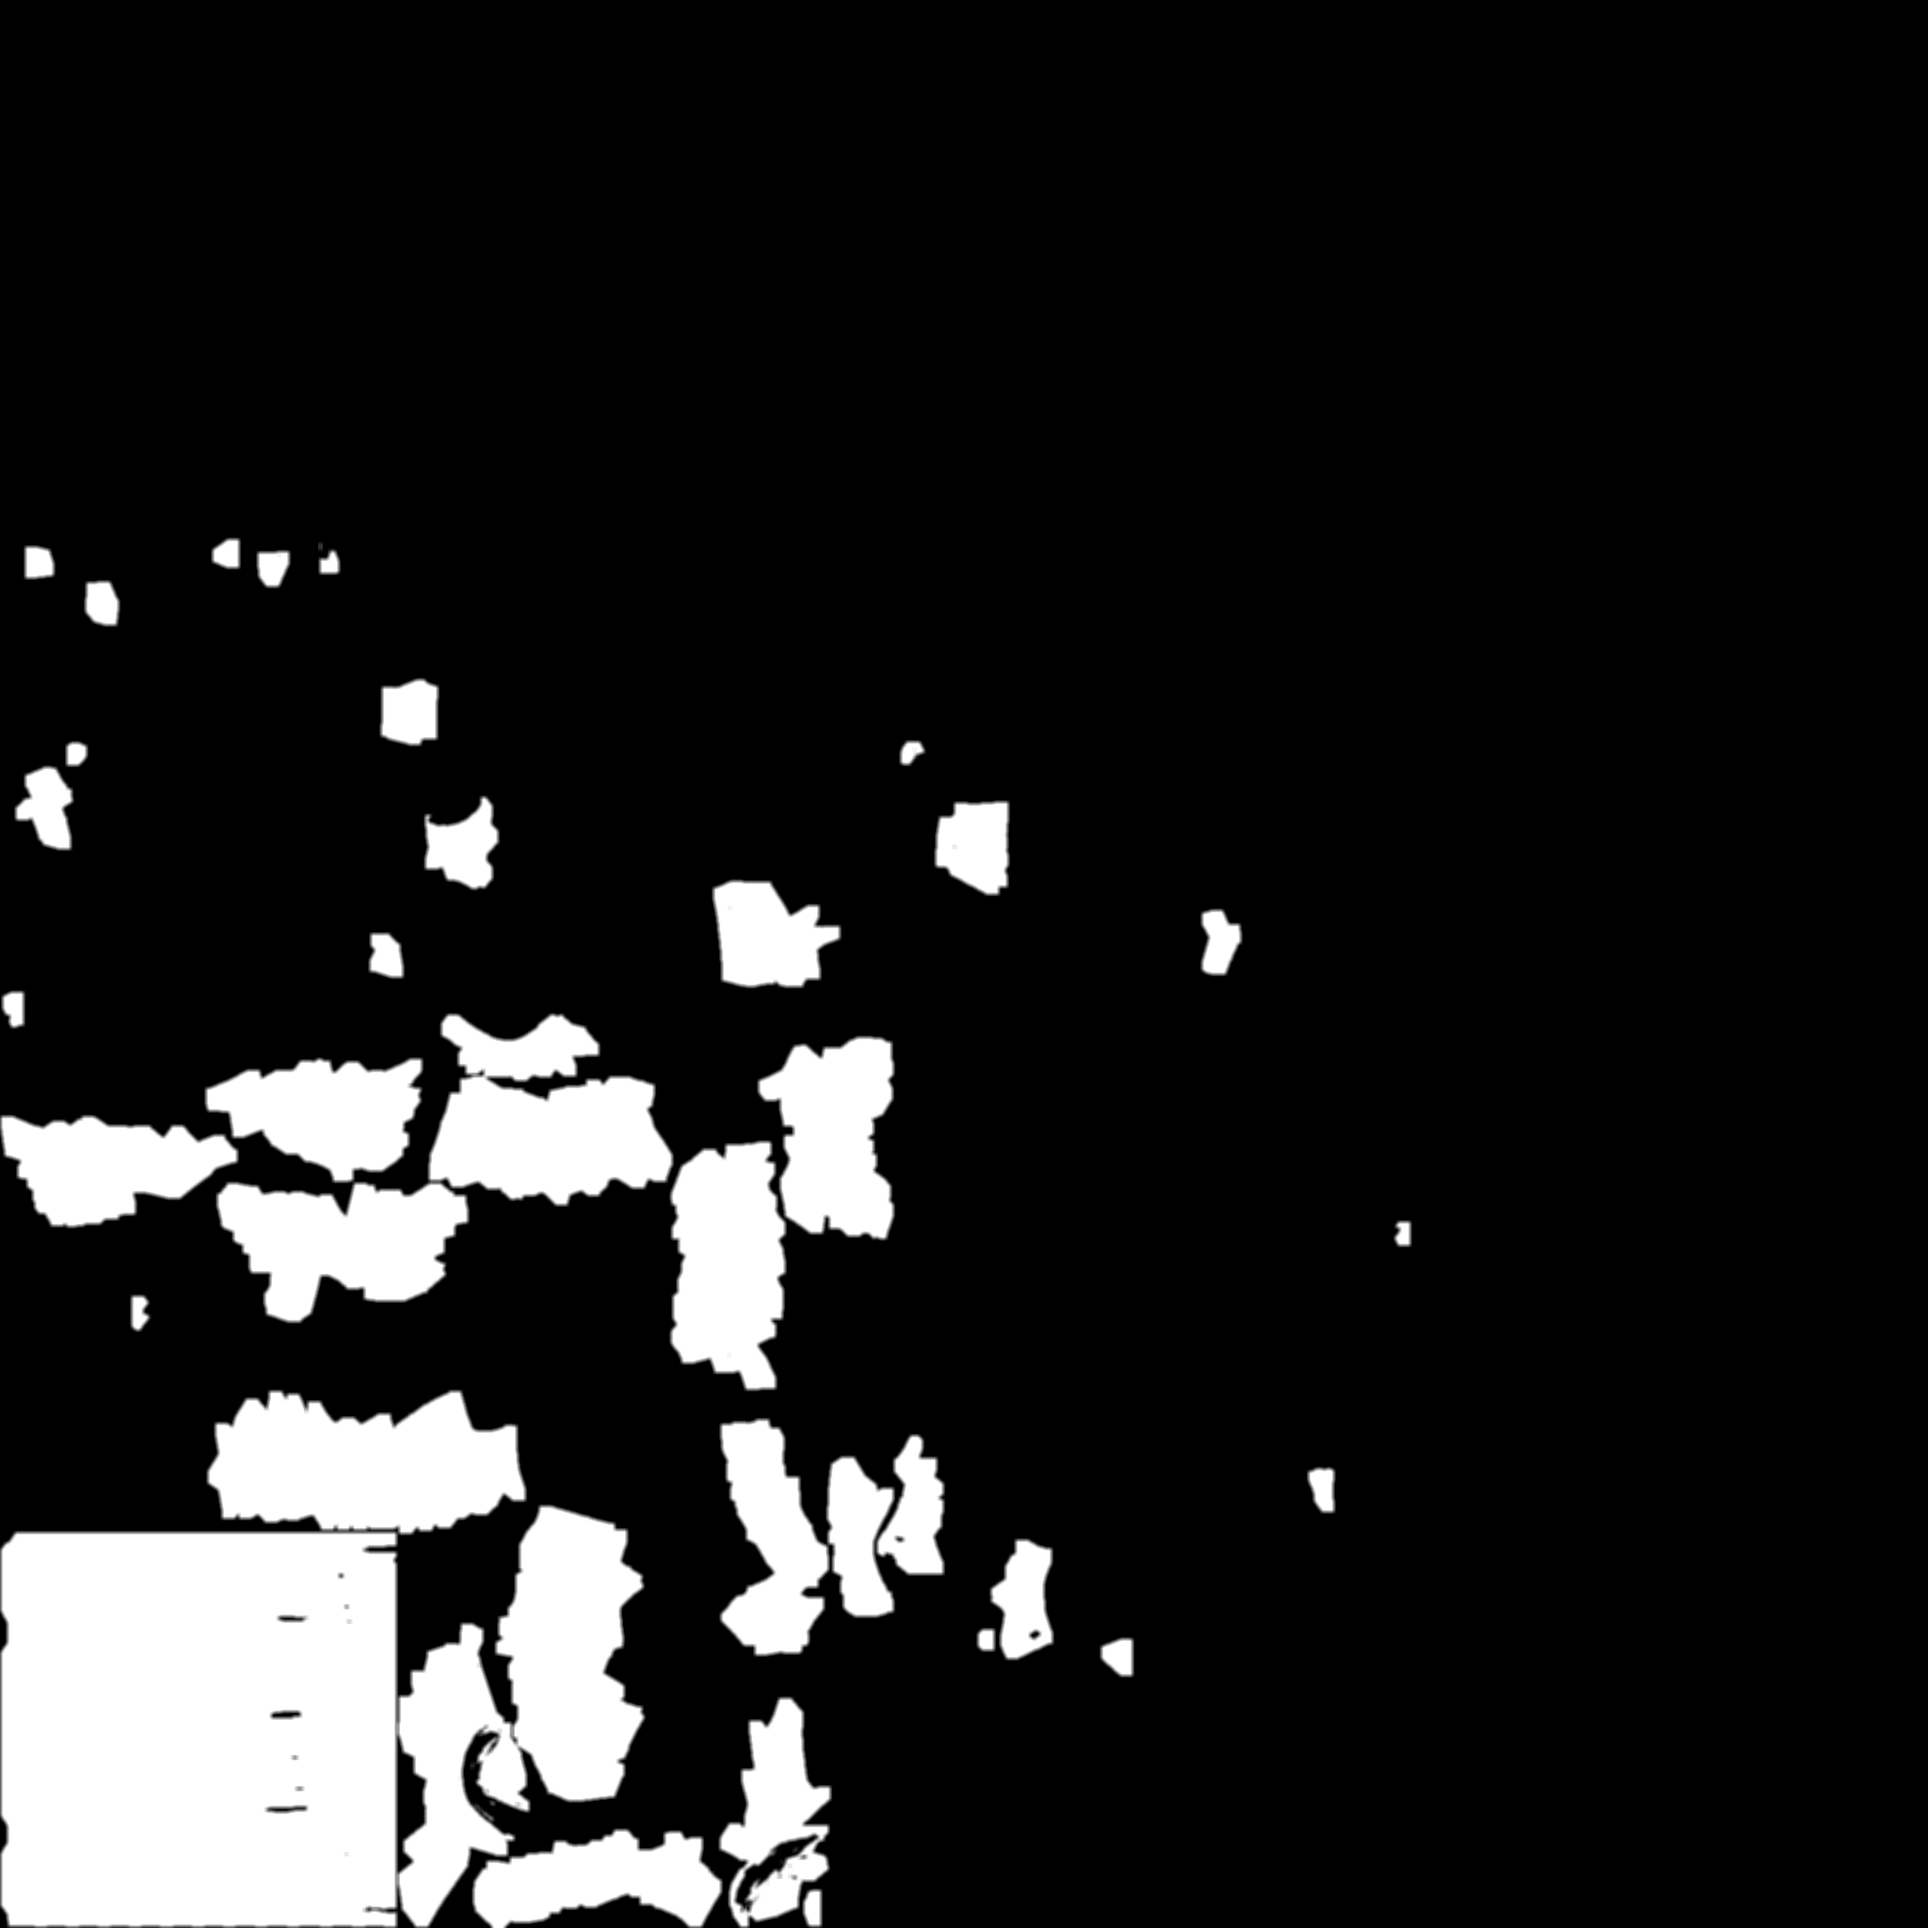
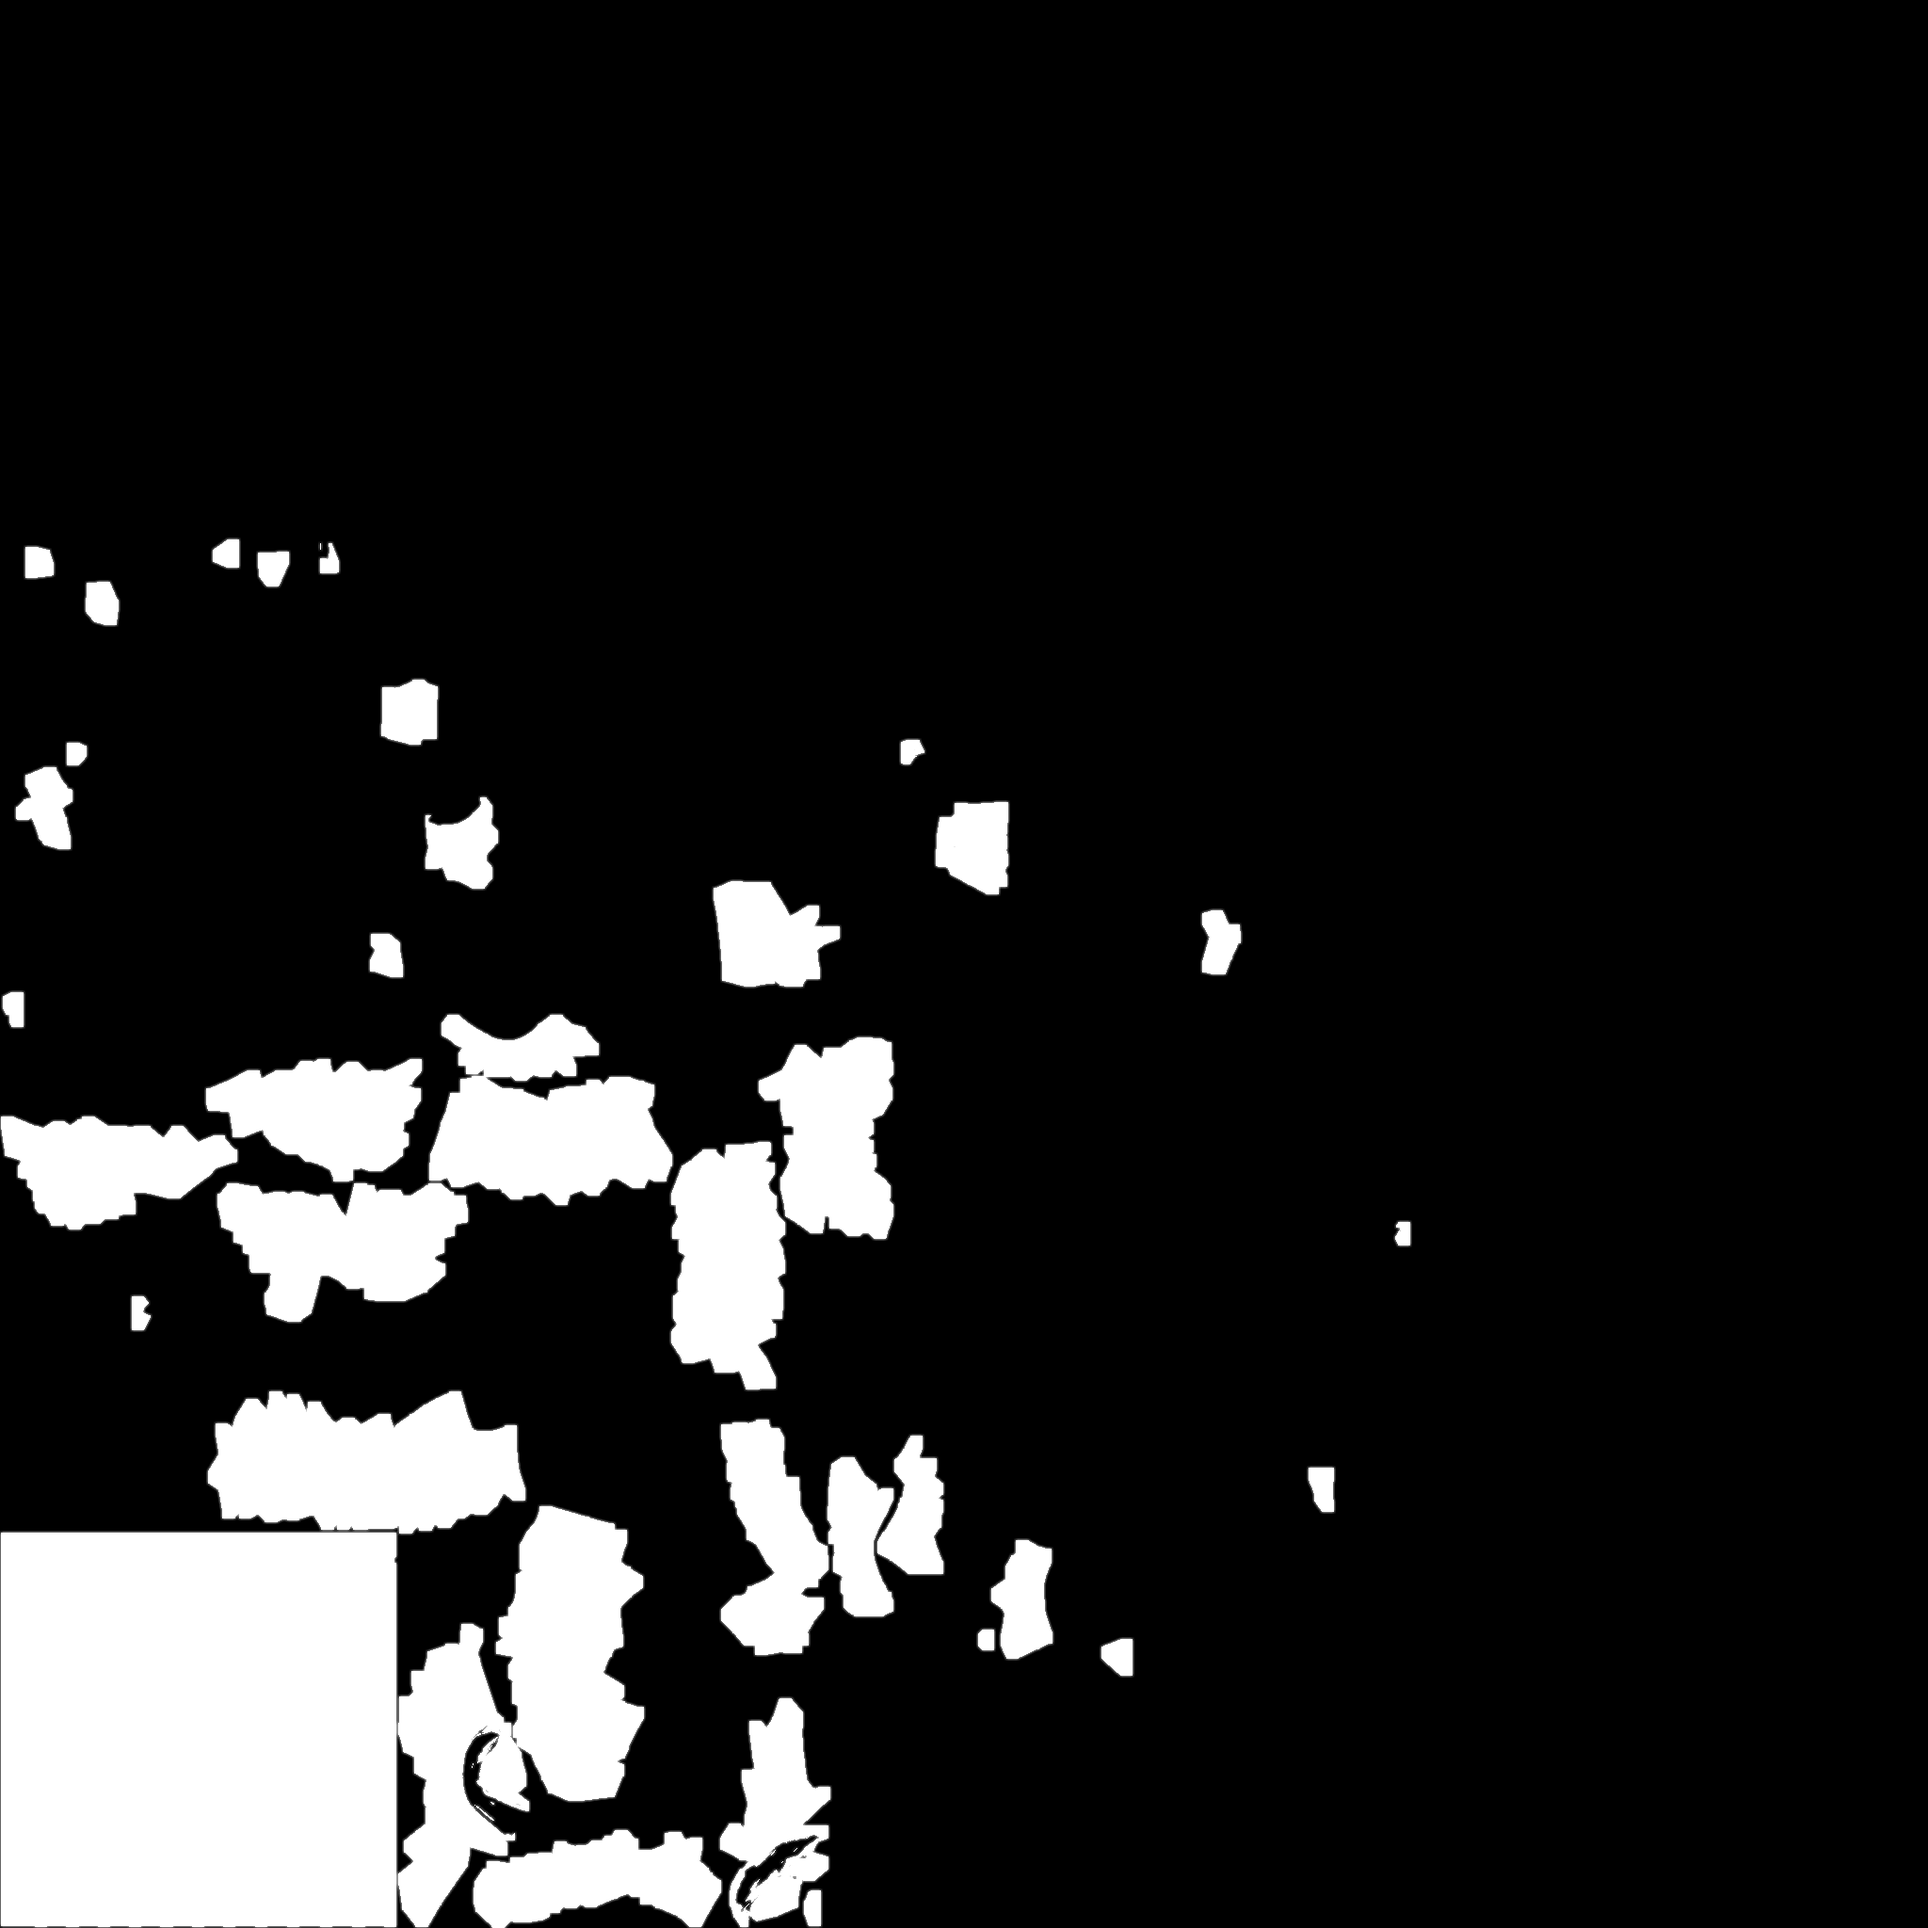
Militia tunic mask: stains stay cloth, no softening into its islands
Critic on the tinted figure: rust spots on the skirt (grey stains cut out
by the saturation test) and a rust seam at the cuff (the mask's blur
reached into its own islands where two lie close). Only bright linen is
left out now; the cloth's texels are fully set, softened outward only and
never onto another part's faces. tunic_luminance 0.052.

diff --git a/tools/units3d/militia_arp/game_export.py b/tools/units3d/militia_arp/game_export.py
@@ -39,7 +39,7 @@ inf.GAME = {k: inf.GAME[k] for k in FIRST_TEN}
 PARTS = ("head", "coif", "helmet", "tunic", "legs", "wraps", "shoes", "hands", "skirt", "belt")
 TINT_PARTS = ("tunic", "skirt")
 MASK_MARGIN_PX = 6
-DYE_SATURATION = 0.3            # the russet wool sits near 0.65, the linen near 0.1
+LINEN = (0.3, 0.65)             # linen: less saturated than this AND brighter than this (the wool: 0.65 / 0.4)
 
 
 def _raster(tris, size):
@@ -68,7 +68,7 @@ def _grow(a):
 def tunic_mask():
     """The realm tint's mask (`militia_tunic_mask.png`'s pixels, rows bottom-up, 0..1): the tunic's and the
     skirt's faces drawn where the body sits in the atlas, grown by the bake's margin without entering another
-    part's island, edges softened as the infantry's mask is."""
+    part's island, less the linen; softened outward only."""
     me = bpy.data.objects[inf.BODY].data
     ids = np.zeros(len(me.vertices), np.int32)
     me.attributes["part_id"].data.foreach_get("value", ids)
@@ -83,18 +83,24 @@ def tunic_mask():
         (cloth if int(ids[t.vertices[0]]) in tint else other).append(uv[list(t.loops)])
     m, o = _raster(np.array(cloth), inf.ATLAS), _raster(np.array(other), inf.ATLAS)
     o &= ~m
+    faces = o.copy()                         # the other parts' own texels: never tinted
     for _ in range(MASK_MARGIN_PX):
         m, o = m | (_grow(m) & ~o), o | (_grow(o) & ~m)
-    # only the DYED cloth: the linen showing at the neck and cuffs is in the tunic's faces and stays white
     mat = bpy.data.objects[inf.BODY].data.materials[0]
     base = next(n.image for n in mat.node_tree.nodes if n.type == "TEX_IMAGE" and n.image
                 and Path(n.image.filepath).stem.endswith("_base"))
     w, h = int(du * inf.ATLAS), int(dv * inf.ATLAS)
-    px = inf._pixels(base, w, h)[..., :3]
-    dyed = np.zeros_like(m)
-    dyed[int(v0 * inf.ATLAS):int(v0 * inf.ATLAS) + h, int(u0 * inf.ATLAS):int(u0 * inf.ATLAS) + w] = \
-        (px.max(2) - px.min(2)) > DYE_SATURATION * np.maximum(px.max(2), 1e-4)
-    return inf.tunic_mask.box((m & dyed).astype(np.float32), 2)
+    px = np.zeros((inf.ATLAS, inf.ATLAS, 3), np.float32)
+    px[int(v0 * inf.ATLAS):int(v0 * inf.ATLAS) + h, int(u0 * inf.ATLAS):int(u0 * inf.ATLAS) + w] = inf._pixels(base, w, h)[..., :3]
+    hi = px.max(2)
+    sat = (hi - px.min(2)) / np.maximum(hi, 1e-4)
+    # The tunic's faces also carry the linen at the neck (bright, unsaturated): it stays white. A grey stain on the
+    # wool is cloth all the same: cut by saturation alone it showed as a rust spot on the tinted skirt, and a mask
+    # softened INTO its own islands left a rust seam where two islands lie close (critic 2026-11-24). So the
+    # cloth's texels are fully set, the softening runs outward only, and never onto another part's faces.
+    m &= ~((sat < LINEN[0]) & (hi > LINEN[1]))
+    soft = np.maximum(inf.tunic_mask.box(m.astype(np.float32), 2), m.astype(np.float32))
+    return np.where(faces, 0.0, soft).astype(np.float32)
 
 
 def _tunic_luminance(albedo_jpg, mask):

diff --git a/tools/units3d/militia_arp/README.md b/tools/units3d/militia_arp/README.md
@@ -67,9 +67,9 @@ residual, ATTACK_VAR1 / ATTACK_2 in place, MARCH's contact lock with the infantr
 shield thumb folded, the shield wood toned, metal at `GAME_METAL` of the authored map. The body has no authored
 material classes, so no mail calming. The realm tint's mask `militia_tunic_mask.png` is drawn here from the
 body's `part_id`: the tunic's and the skirt's faces where the body sits in the atlas, grown by the bake's
-margin without entering another part's island, the white linen at the neck and cuffs left out (only texels
-more saturated than `DYE_SATURATION`); the export reports its coverage and the cloth's mean linear luminance,
-the tint material's `tunic_luminance` (0.051). It returns the MARCH measure: `stride_m` 1.3597 (the
+margin without entering another part's island, the bright linen at the neck left out (`LINEN`), softened
+outward only and never onto another part's faces; the export reports its coverage and the cloth's mean linear luminance,
+the tint material's `tunic_luminance` (0.052). It returns the MARCH measure: `stride_m` 1.3597 (the
 militia's own; with the infantry's 1.4838 its feet slide), steps 0.2121; 0.9091.
 
 The `.import` files carry the infantry's settings: mesh compression off, MARCH / GARRISON / STANDBY / DEFEND
